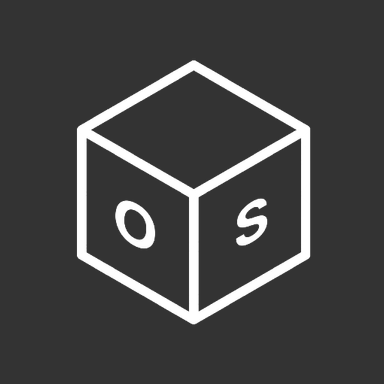
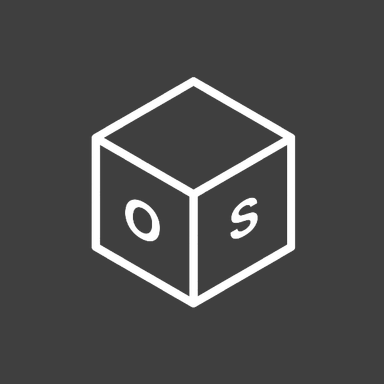
fix manifest

diff --git a/index.html b/index.html
@@ -6,20 +6,17 @@
     <link rel="stylesheet" href="assets/style.css">
     <link rel="stylesheet" href="https://code.jquery.com/ui/1.12.1/themes/base/jquery-ui.css">
     <meta name="viewport" content="width=device-width, initial-scale=1.0">
-    <link rel="apple-touch-icon" sizes="180x180" href="/manifest/apple-touch-icon.png?v1=true">
-    <link rel="icon" type="image/png" sizes="32x32" href="/manifest/favicon-32x32.png?v1=true">
-    <link rel="icon" type="image/png" sizes="194x194" href="/manifest/favicon-194x194.png?v1=true">
-    <link rel="icon" type="image/png" sizes="192x192" href="/manifest/android-chrome-192x192.png?v1=true">
-    <link rel="icon" type="image/png" sizes="16x16" href="/manifest/favicon-16x16.png?v1=true">
-    <link rel="manifest" href="/manifest/site.webmanifest?v1=true">
-    <link rel="mask-icon" href="/manifest/safari-pinned-tab.svg?v1=true" color="#333333">
-    <link rel="shortcut icon" href="/manifest/favicon.ico?v1=true">
+    <link rel="apple-touch-icon" sizes="180x180" href="/os/manifest/apple-touch-icon.png?v2=true">
+    <link rel="icon" type="image/png" sizes="32x32" href="/os/manifest/favicon-32x32.png?v2=true">
+    <link rel="icon" type="image/png" sizes="16x16" href="/os/manifest/favicon-16x16.png?v2=true">
+    <link rel="manifest" href="/os/manifest/site.webmanifest?v2=true">
+    <link rel="mask-icon" href="/os/manifest/safari-pinned-tab.svg?v2=true" color="#3f3f3f">
+    <link rel="shortcut icon" href="/os/manifest/favicon.ico?v2=true">
     <meta name="apple-mobile-web-app-title" content="AtticusOS">
     <meta name="application-name" content="AtticusOS">
-    <meta name="msapplication-TileColor" content="#333333">
-    <meta name="msapplication-TileImage" content="/manifest/mstile-144x144.png?v1=true">
-    <meta name="msapplication-config" content="/manifest/browserconfig.xml?v1=true">
-    <meta name="theme-color" content="#333333">
+    <meta name="msapplication-TileColor" content="#3f3f3f">
+    <meta name="msapplication-config" content="/os/manifest/browserconfig.xml?v2=true">
+    <meta name="theme-color" content="#3f3f3f">
     <script src="assets/clock.js"></script>
 </head>
 <body>
